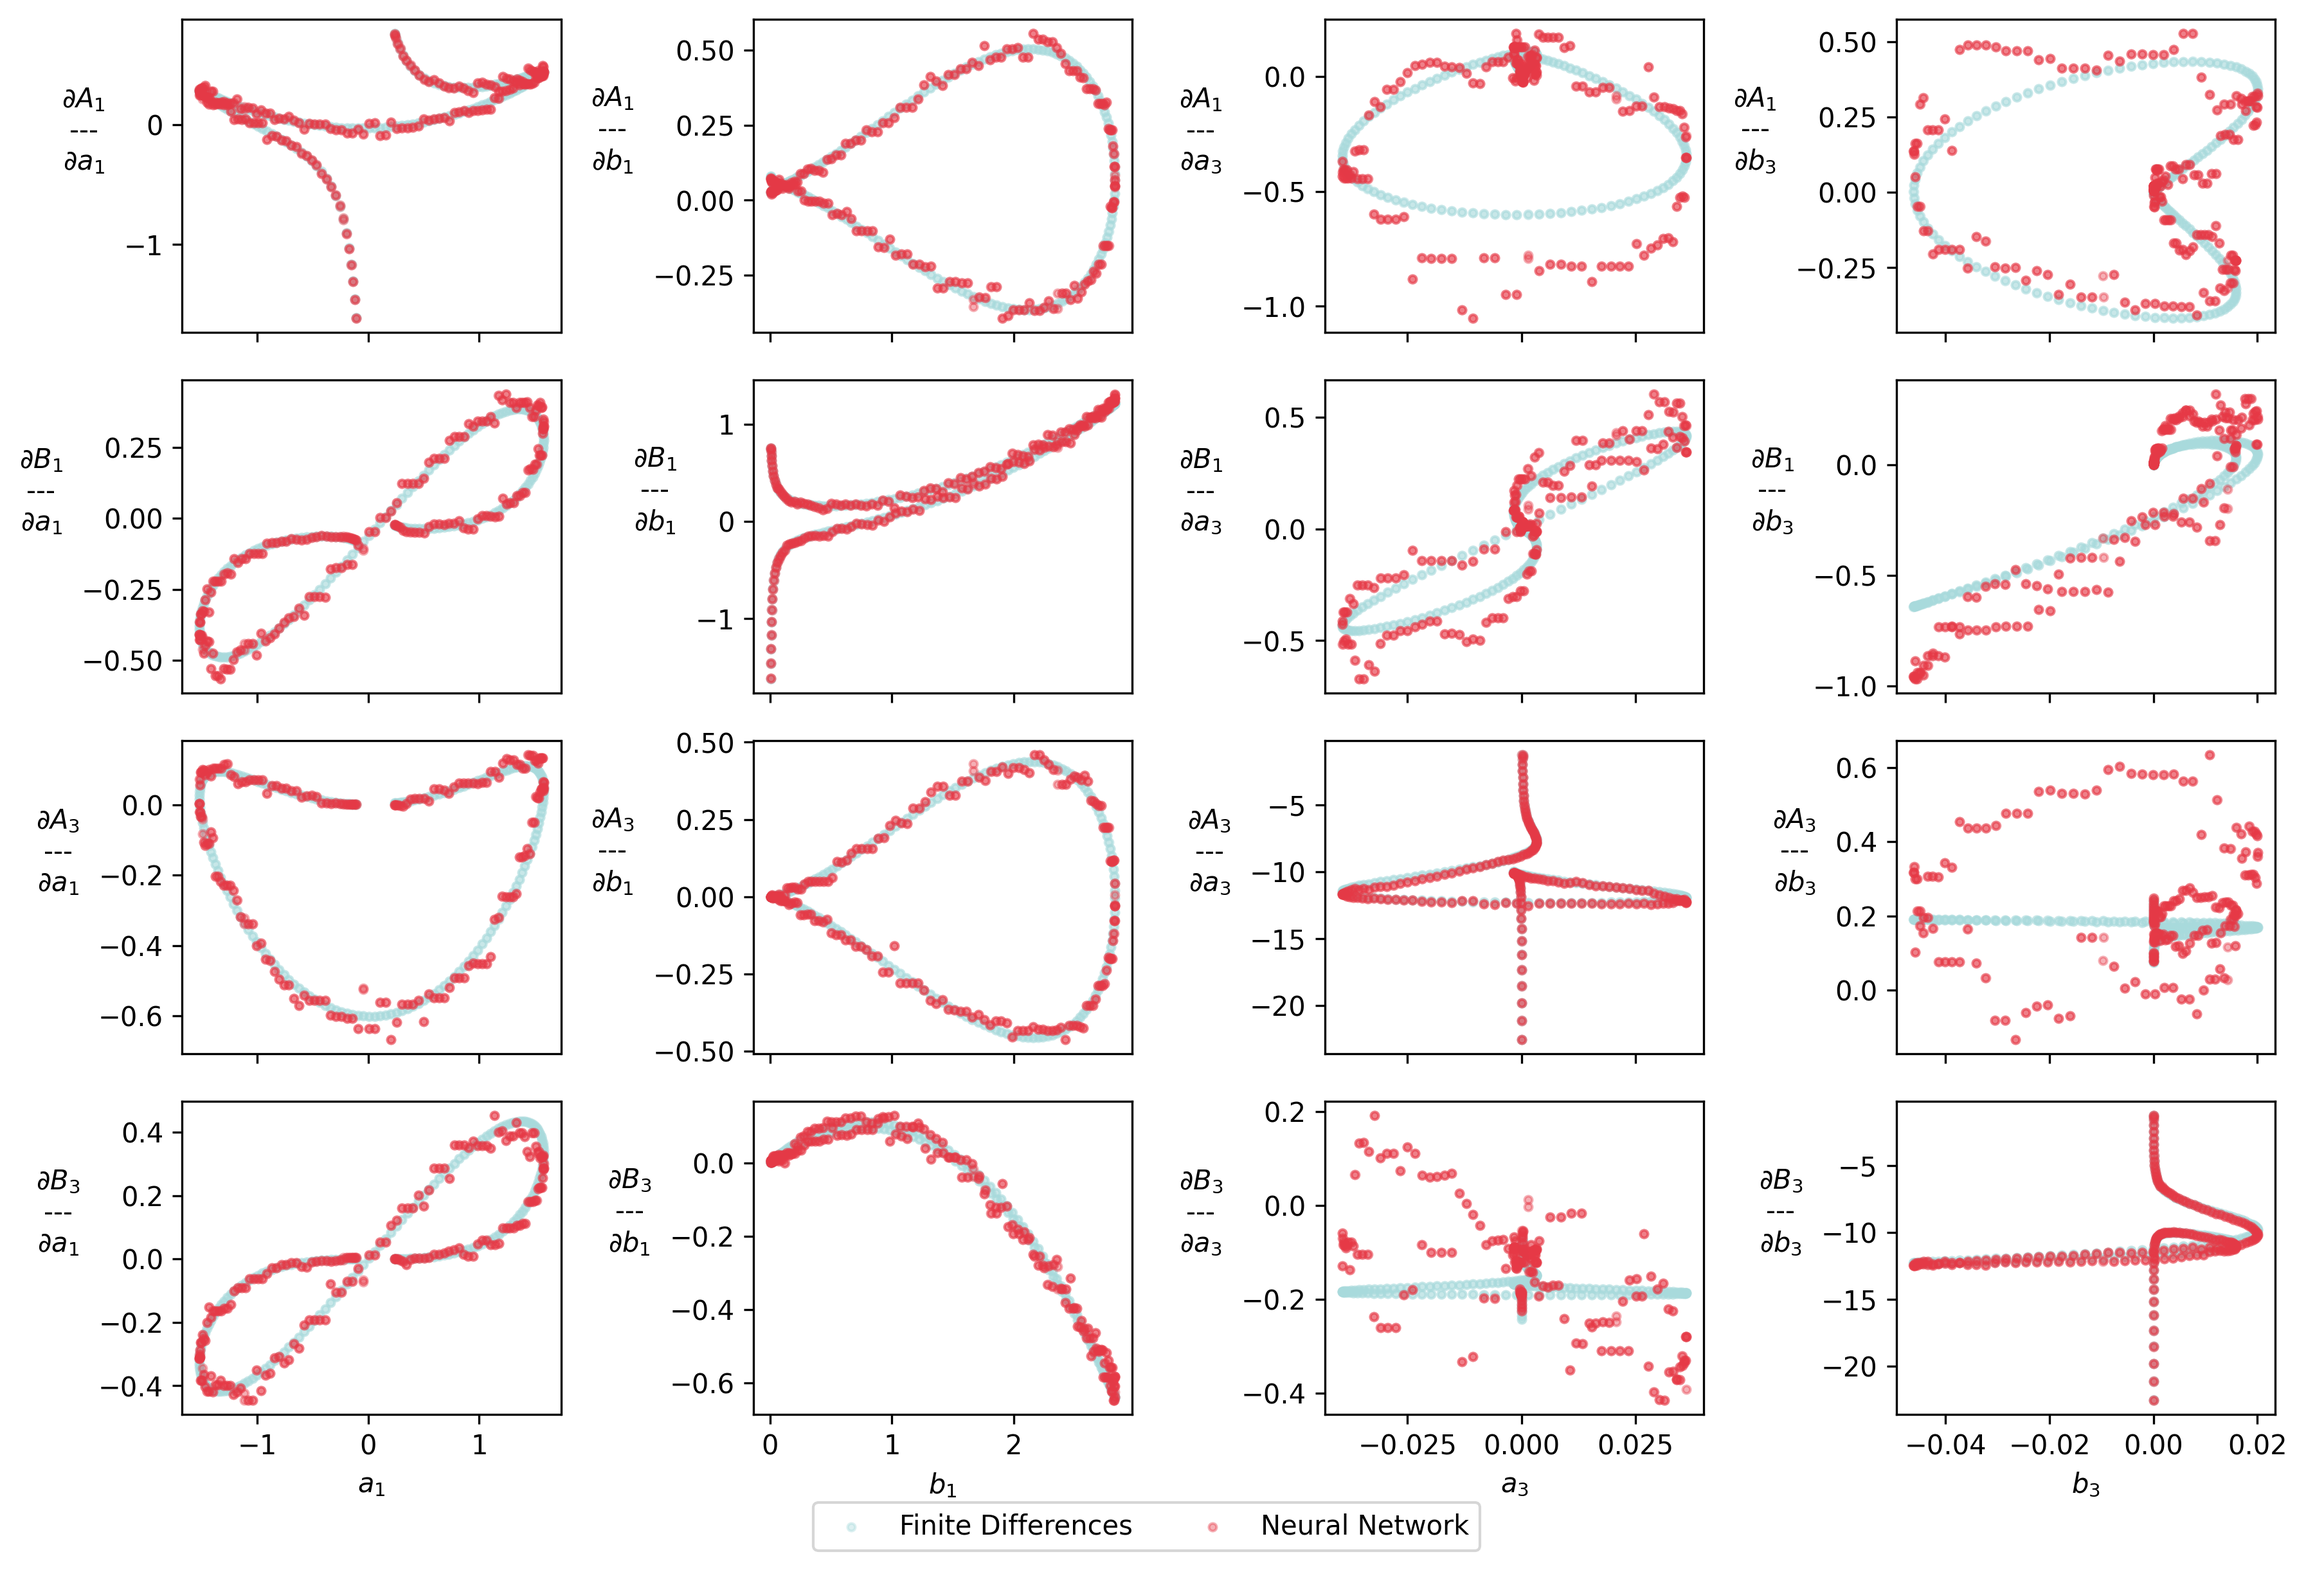
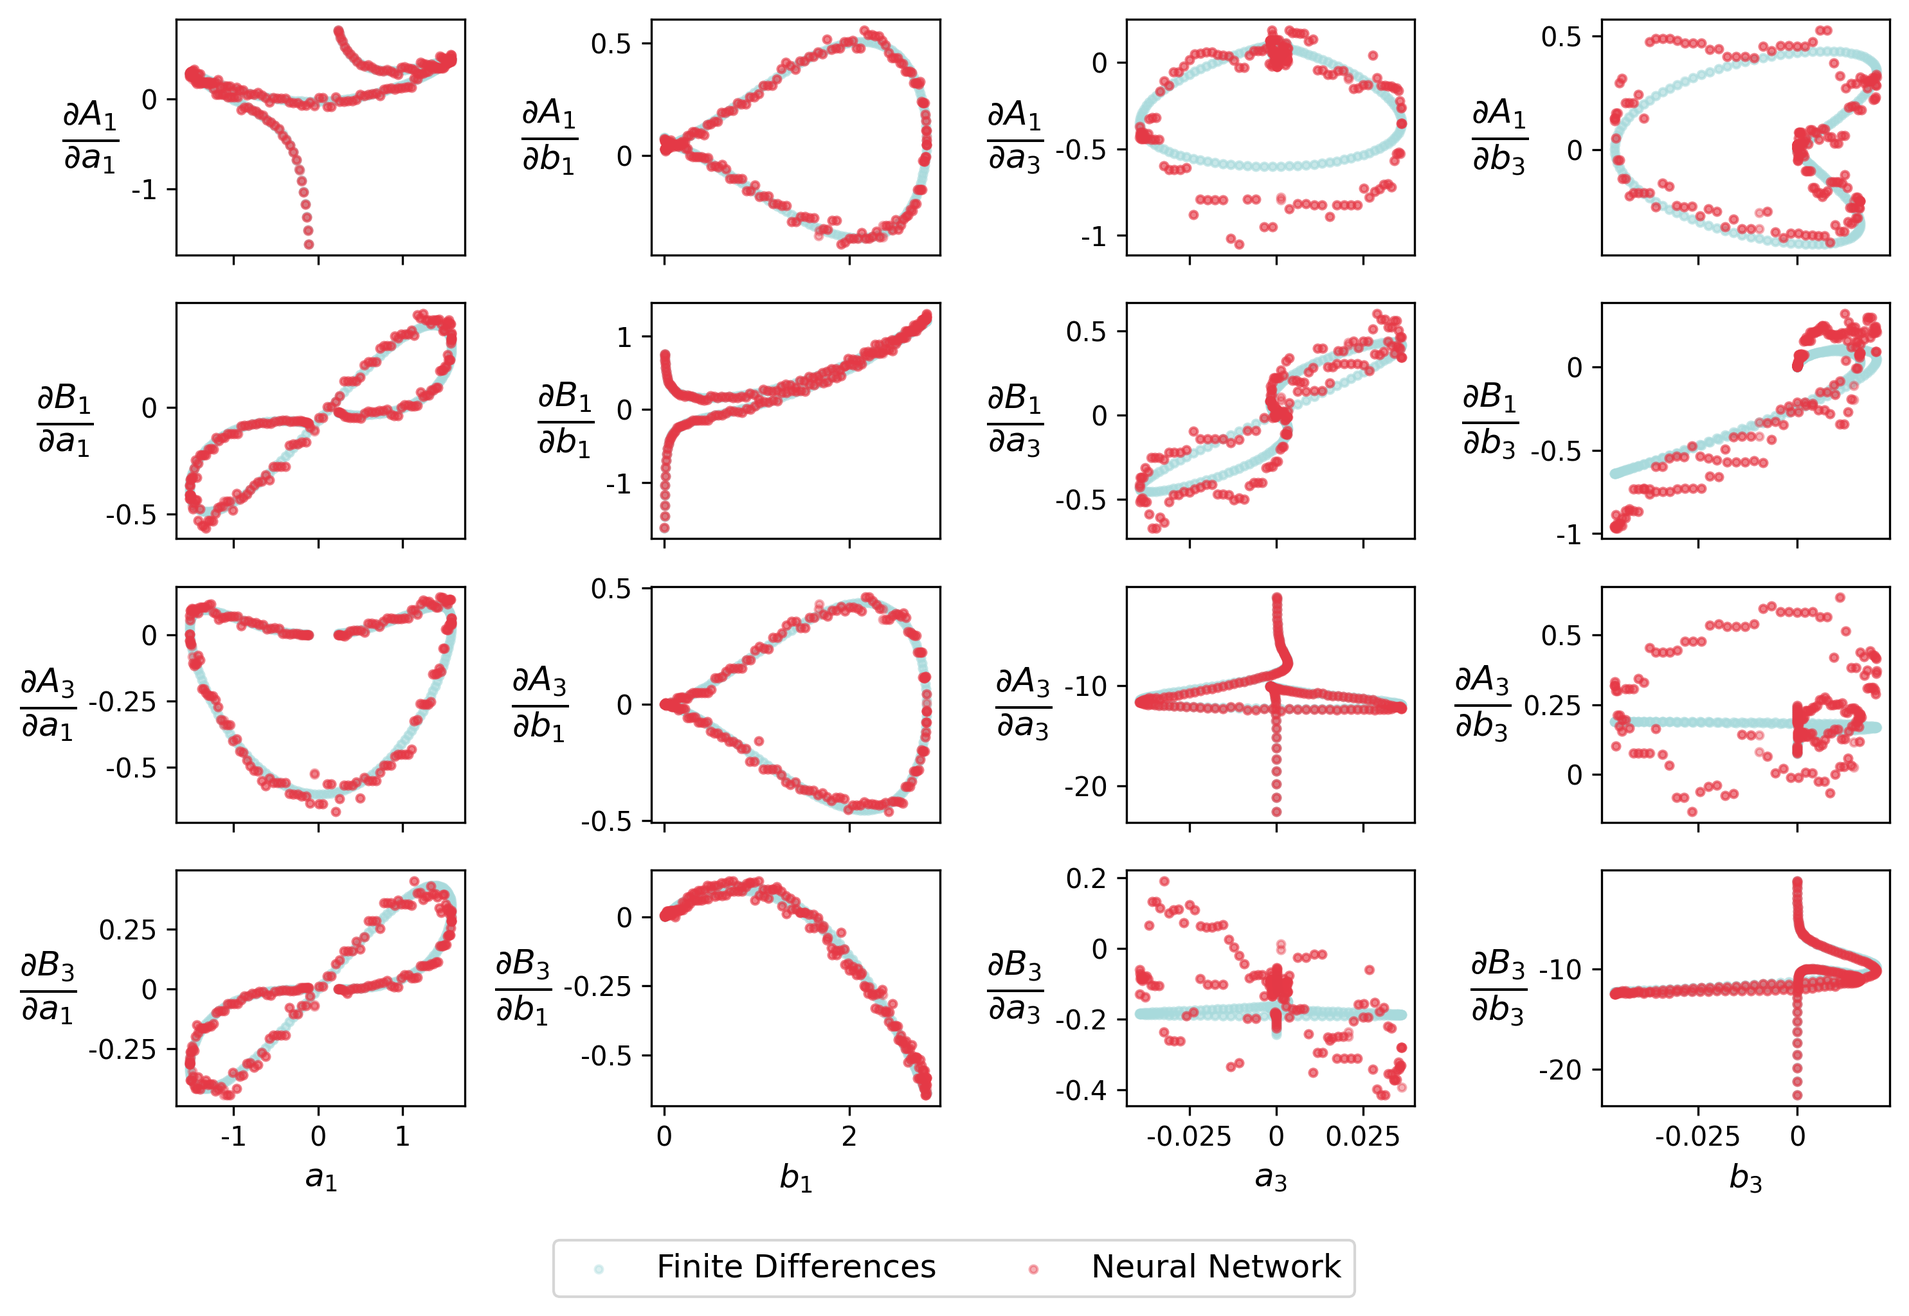
feat: jacobian plot

diff --git a/scripts/compare_jacobian.py b/scripts/compare_jacobian.py
@@ -1,29 +1,22 @@
 import numpy as np
 import matplotlib.pyplot as plt
+from matplotlib.ticker import FuncFormatter
 from src.nn_jacobian import NN_jacobian_Duffing_H3
 
-# ============================================================
-# Goal:
-# - Keep the NN Jacobian in its original, intuitive order
-#   (a0, a1, b1, a2, b2, a3, b3) so that indices [1,2,5,6] mean
-#   (a1, b1, a3, b3) as you expect.
-# - Therefore: "unshuffle" the AFT/FD Jacobian rows to match NN order.
-# - Then plot ONLY the 4x4 nonzero block for (a1,b1,a3,b3) -> (a1,b1,a3,b3)
-# ============================================================
 
-# --- NN/AFT alignment info you found in MATLAB ---------------------------
-# MATLAB: perm_row = [1 2 4 6 3 5 7], alpha = 0.5 meant:
-#   JA (AFT) ≈ alpha * JB(perm_row,:)
-# So to bring AFT FD rows into NN ordering:
-#   J_FD_NNorder = (1/alpha) * J_FD_AFTorder[inv_perm_row, :]
-# 0-based version of [1 2 4 6 3 5 7]
+# different ordering conventions for the Jacobian rows (output variables):
+# NN order: (a0, a1, b1, a2, b2, a3, b3)
+# AFT order: (a0, a1, a2, a3, b1, b2, b3)
 perm_row_0 = np.array([0, 1, 3, 5, 2, 4, 6])
-alpha = 0.5
+alpha = 0.5  # scaling factor due to conversions from ce to cs within AFT
 
 inv_perm = np.empty_like(perm_row_0)
 inv_perm[perm_row_0] = np.arange(len(perm_row_0))
 
-# --- load FD Jacobians saved from MATLAB ---------------------------------
+
+###############################################################################
+# Load FD Jacobian saved from MATLAB
+###############################################################################
 m, n = 7, 8
 Jsize = m * n
 
@@ -39,12 +32,15 @@ for k in range(K):
 X = X_full[:, :7]
 Jsub_fd = J_all[:, :7, :7]  # drop Omega-col => 7x7
 
-# --- convert FD Jacobian from AFT-order to NN-order ----------------------
+# convert FD Jacobian from AFT-order to NN-order
 # (only rows need reordering; columns correspond to variables already in
 # [a0,a1,b1,a2,b2,a3,b3])
 Jsub_fd_nnorder = (1.0 / alpha) * Jsub_fd[:, inv_perm, :]
 
-# --- NN params -----------------------------------------------------------
+
+###############################################################################
+# Compute NN Jacobian
+###############################################################################
 mu = 1
 kappa = 1
 zeta = 0.05
@@ -55,50 +51,56 @@ N = 4 * H + 1
 NN_id = '2026-02-18_13-29-30'
 evaluate_coefficients = False
 
-# --- compute NN Jacobians (NO shuffling/scaling here) --------------------
 J_nn = np.empty((K, 7, 7))
 for k in range(K):
     Om = float(X_full[k, -1])
-    J_nn[k] = NN_jacobian_Duffing_H3(
-        X[k, :],
-        mu, zeta, kappa, gamma, P, H, N,
-        'NN', NN_id, evaluate_coefficients, Om
-    )
+    J_nn[k] = NN_jacobian_Duffing_H3(X[k, :], mu, zeta, kappa, gamma, P, H, N,
+                                     'NN', NN_id, evaluate_coefficients, Om)
 
-# --- optional sanity number (should be ~0.08-0.10) -----------------------
-rel_fro = np.linalg.norm(Jsub_fd_nnorder - J_nn) / \
-    np.linalg.norm(Jsub_fd_nnorder)
-print("global rel fro error (FD rows put into NN-order vs NN):", rel_fro)
 
-# --- plot ONLY the relevant 4x4 block: indices 1,2,5,6 => a1,b1,a3,b3 ----
+###############################################################################
+# Plot relevant gradients: A1,B1,A3,B3 w.r.t a1,b1,a3,b3
+###############################################################################
+def zero_clean_formatter(x, pos):
+    if abs(x) < 1e-12:
+        return "0"
+    return f"{x:g}"
+
+
 idx = [1, 2, 5, 6]  # (a1,b1,a3,b3) in NN-order
 input_labels = [r"$a_1$", r"$b_1$", r"$a_3$", r"$b_3$"]
-output_labels = [r"$\partial A_1$", r"$\partial B_1$", r"$\partial A_3$",
-                 r"$\partial B_3$"]
+input_symbols = [r"a_1", r"b_1", r"a_3", r"b_3"]
+output_symbols = [r"A_1", r"B_1", r"A_3", r"B_3"]
 
-fig, axes = plt.subplots(4, 4, figsize=(12, 8), sharex="col")
-
-for ii, i in enumerate(idx):          # output index (row)
-    for jj, j in enumerate(idx):      # input index  (col)
+fig, axes = plt.subplots(4, 4, figsize=(10, 7), sharex="col")
+for ii, i in enumerate(idx):  # output index (row)
+    for jj, j in enumerate(idx):  # input index (col)
         ax = axes[ii, jj]
         x = X[:, j]
         y_fd = Jsub_fd_nnorder[:, i, j]
         y_nn = J_nn[:, i, j]
         ax.scatter(x, y_fd, s=8, alpha=0.4, color="#A8DADC",
-                   label="Finite Differences" if (ii == 0 and jj == 0) else
-                   None)
+                   label="Finite Differences" if (ii == 0 and jj == 0)
+                   else None)
         ax.scatter(x, y_nn, s=8, alpha=0.4, color="#E63946",
-                   label="Neural Network" if (ii == 0 and jj == 0) else None)
+                   label="Neural Network" if (ii == 0 and jj == 0)
+                   else None)
         if ii == 3:
-            ax.set_xlabel(input_labels[jj])
-        ax.set_ylabel(output_labels[ii]+"\n---\n"+r"$\partial$" +
-                      input_labels[jj], rotation=0, labelpad=15)
+            ax.set_xlabel(input_labels[jj], fontsize=12)
 
+        ylabel = (fr"$\frac{{\partial {output_symbols[ii]}}}"
+                  fr"{{\partial {input_symbols[jj]}}}$")
+        ax.set_ylabel(ylabel, rotation=0, fontsize=18, labelpad=15,
+                      va="center")
+
+for ax in axes.flat:
+    ax.xaxis.set_major_formatter(FuncFormatter(zero_clean_formatter))
+    ax.yaxis.set_major_formatter(FuncFormatter(zero_clean_formatter))
 
 handles, labels_legend = axes[0, 0].get_legend_handles_labels()
 fig.legend(handles, labels_legend, loc="lower center", ncol=2,
-           bbox_to_anchor=(0.5, -0.02))
-fig.subplots_adjust(wspace=0.8, hspace=0.2)
-plt.tight_layout()
+           bbox_to_anchor=(0.5, 0.02), fontsize=12, frameon=True)
+fig.subplots_adjust(wspace=0.8, hspace=0.45)
+fig.tight_layout(rect=[0, 0.08, 1, 1])
 plt.savefig("figures/jacobian_comparison.png", dpi=300, bbox_inches="tight")
 plt.show()
